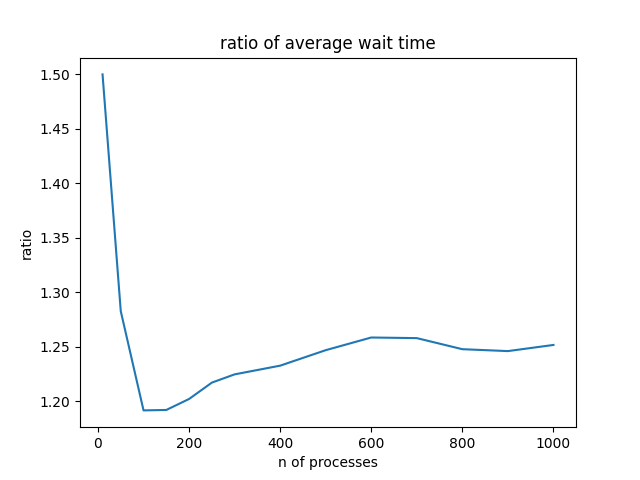
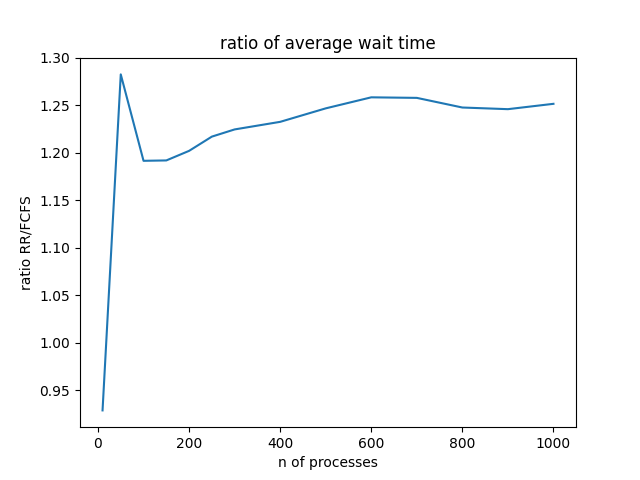
refactored plots

diff --git a/main_processes.py b/main_processes.py
@@ -48,5 +48,5 @@ if __name__ == '__main__':
     plt.plot(number_of_processes, ratios)
     plt.title("ratio of average wait time")
     plt.xlabel("n of processes")
-    plt.ylabel("ratio")
+    plt.ylabel("ratio RR/FCFS")
     plt.savefig("wait time ratio")
